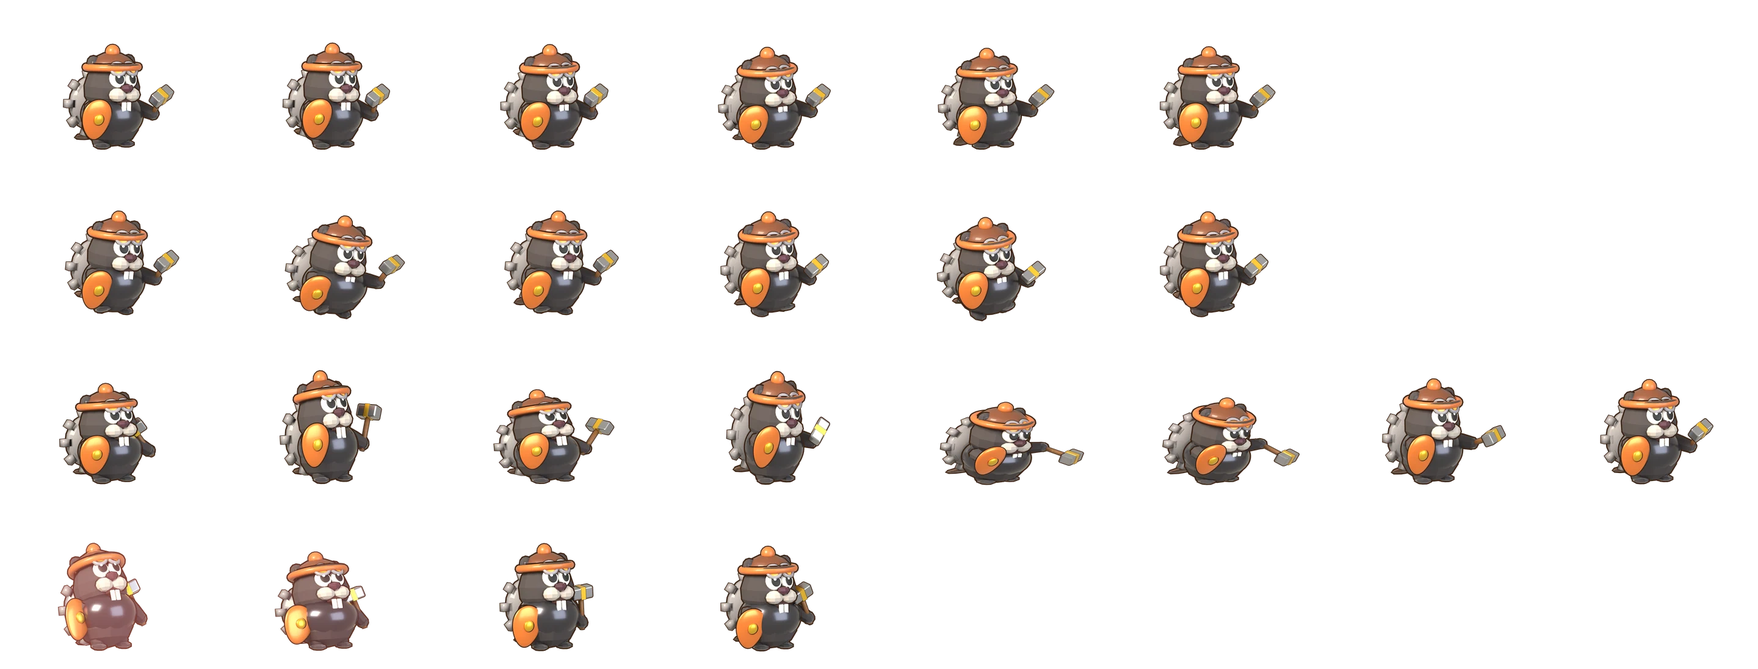
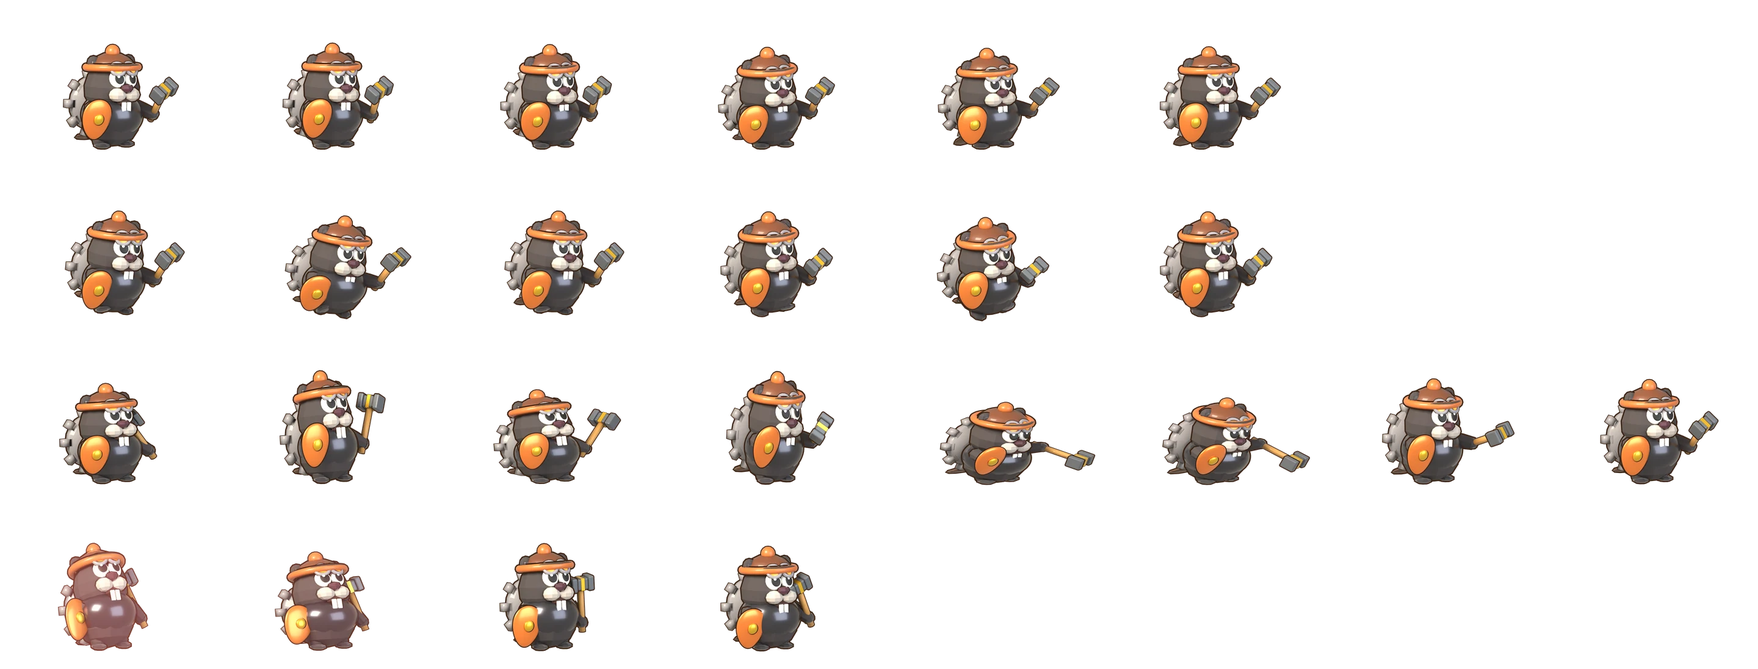
feat(hunt,rebirth,art): 벽 조건 풀이 · 머리줄 환생 단추 · 스킬 칸 주인공 곁 · 칭호 하나 · 비룡 얼굴 · 망치
사용자: "벽조건은 뭔지 구체화 · 마이페이지 오른쪽 여백에 환생하기 버튼 · 오버시 조건 요약 · 사냥터 스킬아이콘 캐릭터 가까이 · 칭호 중복 2개 중 1개 제거 · 아쉬운 점 모두 수정"
벽 = 한 지역에서 스테이지 대장에게 2번 연속 패배. rebirthWallStatus 로 마이페이지 · 사냥터가 같은 문구 · 지역별 기록 · 다음 할 일을 보여 준다
머리줄 환생 단추: 올리면(터치는 누르면) 조건 요약 · 조건을 채우면 두 번 눌러 환생 · 스킬 칸은 만남마다 주인공 발밑 가운데로 · 칭호는 머리 위 명패 하나(칭호 색), 탈것을 타도 얼굴을 안 가린다
비룡: 길고 납작한 주둥이 · 작은 세로 눈 · 찌푸린 눈썹 · 뒤로 젖힌 뿔, 몸 크기는 다른 탈것과 같게(0.66). 망치: 무광 쇠 · 밝은 자루
낮은 화면 알림 칩 폭 150px: 가장 낮은 깊이에서 몸과 22×23px 겹치던 것 → 2px. 새 동료 공유 카드는 전투 시트 대기 칸(낡은 로스터 시트로 빠지던 것)
새 검사 verify-rebirth-ui · verify-wing-clip(큰 날개 파티가 전장 왼쪽에서 잘리지 않는다)

diff --git a/src/TitansGame.tsx b/src/TitansGame.tsx
@@ -77,7 +77,7 @@ import { sfxBossEntrance, sfxBossFail, sfxIdleClaim, sfxPurchase, sfxRebirth, sf
 import { rollCoinDrop } from "./titans/eventCoins";
 import { trialCeiling, trialDpsMul } from "./titans/trialAlly";
 import { HERO_FIG } from "./equipment/heroAnchors";
-import { canRebirthNow, performRebirth } from "./progression/rebirth";
+import { canRebirthNow, performRebirth, rebirthGains, rebirthWallStatus } from "./progression/rebirth";
 import { QuestPanel } from "./titans/QuestPanel";
 import { WEAPON_EFFECTS, WEAPON_KINDS, WEAPON_LABEL, WEAPON_TECH, weaponHuntLevel, weaponIconPath, weaponStatText, type WeaponKind } from "./titans/weapons";
 import { SUMMON_LEVEL_PULLS, summonLevel, summonLevelProgress, TIERS, TIER_LABEL, TIER_RANK } from "./titans/summonLevel";
@@ -1195,9 +1195,9 @@ export function TitansGame({ insets, userHash, forgedWeaponLevel: drumLevel = 0,
     showRewardPop("discovery", discoveryTitle(kind), name, gems > 0 ? `첫 발견 보상 · 보석 +${gems}` : "도감에 기록");
   };
   /** 자동 환생 — 마이페이지 단추와 같은 처리(progression/rebirth.ts) 뒤 사냥터를 다시 불러온다 */
-  const autoRebirth = async () => {
+  const autoRebirth = async (manual = false) => {
     const cur = characterRef.current;
-    if (autoRebirthBusyRef.current || !cur.autoRebirth || !canRebirthNow(cur)) return;
+    if (autoRebirthBusyRef.current || (!manual && !cur.autoRebirth) || !canRebirthNow(cur)) return;
     autoRebirthBusyRef.current = true;
     saveFrozenRef.current = true;
     let reloaded = false;
@@ -1217,7 +1217,7 @@ export function TitansGame({ insets, userHash, forgedWeaponLevel: drumLevel = 0,
       setReady(false);
       setReloadKey((k) => k + 1);
       // later() 는 다시 불러오기 정리에서 지워진다 — 그냥 타이머로
-      window.setTimeout(() => showRewardPop("ladder", `자동 환생 · ${r.next.rebirthCount}회`, `${r.startStage}층부터 다시`, `결정 +${r.crystals}(쓸 결정 ${freeCrystals(r.next)} — 마이페이지 결정 강화) · 출발 골드 ${formatGold(r.startGold)} · 24시간 방치 2배`), 600);
+      window.setTimeout(() => showRewardPop("ladder", `${manual ? "" : "자동 "}환생 · ${r.next.rebirthCount}회`, `${r.startStage}층부터 다시`, `결정 +${r.crystals}(쓸 결정 ${freeCrystals(r.next)} — 마이페이지 결정 강화) · 출발 골드 ${formatGold(r.startGold)} · 24시간 방치 2배`), 600);
     } finally {
       autoRebirthBusyRef.current = false;
       if (!reloaded) saveFrozenRef.current = false;   // 환생이 실패하면 저장을 다시 연다
@@ -1225,6 +1225,32 @@ export function TitansGame({ insets, userHash, forgedWeaponLevel: drumLevel = 0,
   };
   const autoRebirthRef = useRef(autoRebirth);
   autoRebirthRef.current = autoRebirth;
+  const [rebirthTip, setRebirthTip] = useState(false);
+  const [rebirthArm, setRebirthArm] = useState(false);
+  const rebirthTipRef = useRef<HTMLDivElement | null>(null);
+  useEffect(() => {
+    if (!rebirthTip) return;
+    const away = (e: PointerEvent) => { if (!rebirthTipRef.current?.contains(e.target as Node)) { setRebirthTip(false); setRebirthArm(false); } };
+    document.addEventListener("pointerdown", away, true);   // 전장 stopPropagation 앞에서 받는다
+    return () => document.removeEventListener("pointerdown", away, true);
+  }, [rebirthTip]);
+  // 스킬 칸을 주인공 발밑으로 (2026-11-03, 사용자: "사냥터 스킬아이콘 캐릭터 가까이") — 만남마다 자리 잡은 뒤 한 번 잰다. 교전 중엔 움직이지 않아 누르기 쉽다
+  const skillDockRef = useRef<HTMLDivElement | null>(null);
+  useEffect(() => {
+    if (!formationReady) return;
+    const place = () => {
+      const dock = skillDockRef.current, hero = document.querySelector(".titans-field .titans-hero");
+      if (!dock || !hero) return;
+      const skills = [...dock.querySelectorAll<HTMLElement>(".titans-skill")];
+      if (!skills.length) return;
+      const d = dock.getBoundingClientRect(), h = hero.getBoundingClientRect();
+      const width = skills.reduce((n, b) => n + b.offsetWidth, 0) + 6 * (skills.length - 1);
+      dock.style.paddingLeft = `${Math.round(Math.max(58, Math.min(d.width - width - 4, h.left + h.width / 2 - d.left - width / 2)))}px`;
+    };
+    place();
+    window.addEventListener("resize", place);
+    return () => window.removeEventListener("resize", place);
+  }, [formationReady]);
   // 한 번뿐인 안내(hold)는 떠 있는 동안 흔한 안내(황금 몬스터 등)가 덮지 못한다 — 번개 환급 안내가 1초 만에 지워졌다(2026-10-28)
   const toastHoldUntil = useRef(0);
   const flash = (msg: string, ms = 1400, hold = false) => {
@@ -3588,6 +3614,31 @@ export function TitansGame({ insets, userHash, forgedWeaponLevel: drumLevel = 0,
           <span className="mypage-icon" aria-hidden="true" style={{ backgroundImage:`url(${heroPortrait()})`, backgroundSize:"cover", backgroundPosition:"center" }} />
           <span className="mypage-label">마이페이지{character.activeTitle && TITLES[character.activeTitle] ? <small style={{ color:TITLES[character.activeTitle].color }}>「{TITLES[character.activeTitle].name}」</small> : <small>칭호 미설정</small>}</span>
         </button>
+        {/* 환생 단추 (2026-11-03, 사용자: "마이페이지 오른쪽 여백에 환생하기 버튼 · 오버시 조건 요약") — 올리면(터치는 누르면) 조건 요약. 첫 탭이 바로 환생하지 않게 요약 안 단추로 진행 */}
+        {(() => {
+          const wall = rebirthWallStatus(character, save.stage), gains = rebirthGains(character);
+          return (
+            <div ref={rebirthTipRef} className={`header-rebirth ${wall.ready ? "ready" : ""} ${rebirthTip ? "open" : ""}`}>
+              <button type="button" className="header-rebirth-btn" aria-expanded={rebirthTip} aria-label={`환생 ${wall.have}/${wall.need}`} onClick={() => { setRebirthTip((v) => !v); setRebirthArm(false); }}>
+                <img src={assetUrl("titans/relics/tree-crystal.png")} alt="" />
+                <b>환생</b><small>{wall.have}/{wall.need}</small>
+              </button>
+              <div className="header-rebirth-tip" role="tooltip">
+                <strong>환생 조건 · {wall.needText}의 벽 <em>{wall.have}/{wall.need}</em></strong>
+                <p>{wall.rule}</p>
+                <p className="next">{wall.next}</p>
+                <p className="gain">받는 것: 결정 +{gains.crystals} · 진화 포인트 +1 · 방치 24시간 2배 · {gains.startStage}층부터</p>
+                {wall.ready ? (
+                  <button type="button" className={`header-rebirth-go ${rebirthArm ? "armed" : ""}`} onClick={() => { if (!rebirthArm) { setRebirthArm(true); return; } setRebirthTip(false); setRebirthArm(false); void autoRebirthRef.current(true); }}>
+                    {rebirthArm ? "정말 환생하기 (사냥터 초기화)" : "환생하기"}
+                  </button>
+                ) : (
+                  <button type="button" className="header-rebirth-go" onClick={() => onOpenContent("profile")}>마이페이지에서 자세히</button>
+                )}
+              </div>
+            </div>
+          );
+        })()}
         <div className="titans-wallet">
           <span><CurrencyIcon kind="gold" /><strong><TweenNumber value={save.gold} /></strong></span>
           {/* 강화석(파란 수정) — 상점 강화석 상자·대장간이 쓰는데 머리에 없어 '하늘색 보석'이 안 보인다고 읽혔다 (2026-10-06) */}
@@ -3688,12 +3739,9 @@ export function TitansGame({ insets, userHash, forgedWeaponLevel: drumLevel = 0,
           );
         })()}
         <div className={`titans-hero ${isMountId(character.activeMount) ? "has-mount" : ""} ${formationEngaged ? "is-engaged" : ""} ${partyApproach ? "is-approaching" : ""} ${animMode} ${skillVisual ? `skill-${skillVisual}` : ""} ${now < buffs.hasteUntil ? "hero-haste" : ""} ${now < buffs.critUntil ? "hero-crit-aura" : ""} ${now < buffs.cloneUntil ? "hero-clone" : ""}`} style={{ "--hero-fig-top": `${HERO_FIG.y0}%` } as CSSProperties}>
-          {/* 칭호 이름표 — 과금 점검: 칭호가 전투에서 전혀 보이지 않아 150~250보석 가치가 없었다 */}
-          {character.activeTitle && TITLES[character.activeTitle] && (
-            <span className="hero-title-plate" style={{ color: TITLES[character.activeTitle].color }}>✦ {TITLES[character.activeTitle].name}</span>
-          )}
-          {/* 주인공 표시 — 동료와 같은 크기가 되면서 누가 나인지 읽히지 않았다: 머리 위 명패 + 발밑 링 */}
-          <span className="hero-marker" aria-hidden="true"><b>{TITLES[character.activeTitle ?? ""]?.name ?? (character.activeCharacter && character.activeCharacter !== "default" ? CHARACTER_LABEL[character.activeCharacter as CharacterSkinId] ?? "모험가" : "모험가")}</b><i>▼</i></span>
+          {/* 주인공 표시 — 동료와 같은 크기가 되면서 누가 나인지 읽히지 않았다: 머리 위 명패 + 발밑 링.
+              칭호가 있으면 명패가 칭호 색으로 커진다 — 이름표 · 명패에 같은 칭호가 두 번 나오던 것을 하나로 (2026-11-03, 사용자: "칭호 중복 2개 중 1개 제거") */}
+          <span className={`hero-marker ${TITLES[character.activeTitle ?? ""] ? "has-title" : ""}`} aria-hidden="true" style={TITLES[character.activeTitle ?? ""] ? { "--title-color": TITLES[character.activeTitle ?? ""].color } as CSSProperties : undefined}><b>{TITLES[character.activeTitle ?? ""] ? "✦ " : ""}{TITLES[character.activeTitle ?? ""]?.name ?? (character.activeCharacter && character.activeCharacter !== "default" ? CHARACTER_LABEL[character.activeCharacter as CharacterSkinId] ?? "모험가" : "모험가")}</b><i>▼</i></span>
           <span className="hero-ring" aria-hidden="true" />
           {/* 시전 이름표 — 영웅을 따라다닌다 (예전엔 화면 가운데 컷인) */}
           {skillVisual && (() => {
@@ -3910,7 +3958,7 @@ export function TitansGame({ insets, userHash, forgedWeaponLevel: drumLevel = 0,
 
         {/* 스킬 독 — 전장 안 좌하단. 스킬은 전투 중 누르는 것이라 전장 밖(하단 카드 열)에
             있으면 시선이 오간다. 힌트 텍스트는 우하단으로 비켜난다 (사용자 지시). */}
-        <div className="titans-skill-dock" onPointerDown={(e) => e.stopPropagation()}>
+        <div ref={skillDockRef} className="titans-skill-dock" onPointerDown={(e) => e.stopPropagation()}>
           <div className="battle-qol" role="group" aria-label="전투 편의">
             <button
               type="button"

diff --git a/src/CharacterStatus.tsx b/src/CharacterStatus.tsx
@@ -28,7 +28,7 @@ import {
 } from "./progression/idle";
 import { HUNTING_AREAS, huntingArea } from "./titans/model";
 import { formatWallet } from "./ui/WalletBar";
-import { canRebirthNow, performRebirth, rebirthGains, rebirthNeedAreas } from "./progression/rebirth";
+import { canRebirthNow, performRebirth, rebirthGains, rebirthNeedAreas , rebirthWallStatus, WALL_BOSS_LOSSES } from "./progression/rebirth";
 import { sfxRebirth } from "./ui/sfx";
 import { LockIcon } from "./ui/LockIcon";
 import { freeCrystals, treeIdleMult } from "./progression/crystalTree";
@@ -166,10 +166,11 @@ export function CharacterStatus({
   const needAreas = rebirthNeedAreas(progress);
   const canRebirth = canRebirthNow(progress);
   const gains = rebirthGains(progress);
+  const wall = rebirthWallStatus(progress, titans.stage);
   const toggleAutoRebirth = async () => {
     const next = await updateCharacterProgress(userHash, (current) => ({ ...current, autoRebirth: !current.autoRebirth }));
     onProgressChange(next);
-    setGrowthMessage(next.autoRebirth ? `자동 환생 켜짐 — 사냥터에서 벽 조건을 채우면 바로 환생하고 ${rebirthGains(next).startStage}층부터 다시 오릅니다` : "자동 환생 꺼짐");
+    setGrowthMessage(next.autoRebirth ? `자동 환생 켜짐 — 대장 ${WALL_BOSS_LOSSES}연패 지역을 ${wall.need}곳 채우면 사냥터에서 바로 환생하고 ${rebirthGains(next).startStage}층부터 다시 오릅니다` : "자동 환생 꺼짐");
   };
 
   const chooseEvolution = async (path: Exclude<EvolutionPath, "novice">) => {
@@ -217,7 +218,7 @@ export function CharacterStatus({
 
   const rebirth = async () => {
     if (!canRebirth) {
-      setGrowthMessage(`${needAreas}개 지역에서 한계(DPS 벽)에 도달하면 환생할 수 있습니다. (현재 ${progress.wallAreas.length})`);
+      setGrowthMessage(wall.next);
       return;
     }
     // 리셋이 생겼으므로 실수 방지 확인 단계
@@ -533,6 +534,15 @@ export function CharacterStatus({
         </div>
         <div className="legacy-heading"><div><small>REBIRTH</small><strong>계승</strong></div><span>결정 {freeCrystals(progress)} / {progress.inheritanceCrystals} · 방치 +{treeIdleMult(progress.crystalTree).toFixed(2)}</span></div>
         <div className="mp-rebirth">
+          {/* 벽 조건을 풀어 쓴다 (2026-11-03, 사용자: "벽조건은 뭔지 구체화") */}
+          <div className={`rebirth-wall-guide ${wall.ready ? "ready" : ""}`}>
+            <strong>환생 조건 · {wall.needText}의 벽 <em>{wall.have}/{wall.need}</em></strong>
+            <p>{wall.rule}</p>
+            <ul aria-label="지역별 벽 기록">
+              {wall.areas.map((a) => <li key={a.id} className={`${a.done ? "done" : ""} ${a.here ? "here" : ""}`}>{a.done ? "✓ " : ""}{a.name}{a.here ? " · 지금" : ""}</li>)}
+            </ul>
+            <p className="next">{wall.next}</p>
+          </div>
           {/* 환생하면 받는 것 — 한 줄씩 이름 · 값 */}
           <ul className="rebirth-preview mp-gain" aria-label="환생하면 받는 것">
             <li><span>결정</span> <b>+{gains.crystals}</b></li>
@@ -542,12 +552,12 @@ export function CharacterStatus({
             <li><span>출발 골드</span> <b>{formatWallet(gains.startGold)}</b></li>
             <li><span>사다리 · 유물</span> <b>유지</b></li>
           </ul>
-          <button type="button" className={`rebirth-button ${rebirthConfirm ? "confirming" : ""} ${canRebirth ? "" : "is-locked"}`} style={{ "--wall-p": `${Math.min(100, (progress.wallAreas.length / needAreas) * 100)}%` } as CSSProperties} aria-disabled={!canRebirth} onClick={() => (canRebirth ? void rebirth() : setGrowthMessage(`환생은 DPS 벽 ${needAreas}지역이 필요합니다 — 지금 ${progress.wallAreas.length}지역 (사냥터에서 막힌 지역)`))}>
-            {canRebirth ? (rebirthConfirm ? "정말 환생하기 (사냥터 초기화)" : `환생 ${progress.rebirthCount + 1}회째 시작`) : `환생 ${progress.rebirthCount}회 · DPS 벽 ${progress.wallAreas.length}/${needAreas} 지역`}
+          <button type="button" className={`rebirth-button ${rebirthConfirm ? "confirming" : ""} ${canRebirth ? "" : "is-locked"}`} style={{ "--wall-p": `${Math.min(100, (progress.wallAreas.length / needAreas) * 100)}%` } as CSSProperties} aria-disabled={!canRebirth} onClick={() => (canRebirth ? void rebirth() : setGrowthMessage(wall.next))}>
+            {canRebirth ? (rebirthConfirm ? "정말 환생하기 (사냥터 초기화)" : `환생 ${progress.rebirthCount + 1}회째 시작`) : `환생 ${progress.rebirthCount}회 · 벽 ${progress.wallAreas.length}/${needAreas} 지역 (대장 ${WALL_BOSS_LOSSES}연패)`}
           </button>
           {/* 자동 환생 (2026-10-22 아처 키우기 7번 — "언제까지 환생하냐, 귀찮다") */}
           <button type="button" className={`auto-rebirth-toggle ${progress.autoRebirth ? "on" : ""}`} role="switch" aria-checked={progress.autoRebirth} onClick={() => void toggleAutoRebirth()}>
-            <i aria-hidden="true" /><span><b>자동 환생</b><small>벽 조건을 채우면 사냥터에서 바로 환생 · {gains.startStage}층부터</small></span>
+            <i aria-hidden="true" /><span><b>자동 환생</b><small>대장 {WALL_BOSS_LOSSES}연패 지역 {wall.need}곳을 채우면 사냥터에서 바로 환생 · {gains.startStage}층부터</small></span>
           </button>
         </div>
         <CrystalTreePanel userHash={userHash} progress={progress} onProgressChange={onProgressChange} onMessage={setGrowthMessage} />

diff --git a/src/ui-polish.css b/src/ui-polish.css
@@ -1334,7 +1334,52 @@
 .titans-hero .hero-pet { width: 60%; left: -38%; }
 /* 낮은 화면(360×640)은 커진 스킬 칸이 전장 알림과 12px 겹쳤다(inspect-mobile) — 알림을 스킬 칸 위로 올린다 */
 @media (max-height: 700px) {
-  .titans-field:not(.lanes-wide) .battle-alert-stack { bottom: 70px !important; }   /* 72 는 가장 낮은 깊이의 주인공 발과 4px 넘게 겹쳤다(verify-walk-y) */
+  .titans-field:not(.lanes-wide) .battle-alert-stack { bottom: 70px !important; width: 150px !important; }   /* 가장 낮은 깊이(왼쪽 −9%)에서 몸과 22×23px 겹쳤다(_probe-alert-lanes) — 칩을 좁혀 몸이 서는 왼쪽 구간을 비운다. 글자는 줄임표, 눌러서 내용을 본다 */
 }
 /* 사냥터 토스트 12px — 황금 몬스터 안내가 기준(13px) 밑이었다(scan-readability 가 그 순간에 걸릴 때만 잡았다) */
 .titans-toast { font-size: 13px !important; }
+
+/* 사냥터 머리줄 환생 단추 (2026-11-03) — 마이페이지와 지갑 사이 여백. 올리면(터치는 누르면) 조건 요약 */
+.titans-header .titans-back { min-width: 0; flex: 0 1 auto; }
+.header-rebirth { position: relative; flex: 0 0 auto; z-index: 60; }
+.header-rebirth-btn { display: grid; grid-template-rows: 18px auto auto; justify-items: center; width: 40px; padding: 2px 0 3px; border: 2px solid #3b2415; border-radius: 12px; background: #fff7e6; color: #3b2415; line-height: 1.05; cursor: pointer; box-shadow: 0 2px 0 #3b2415; }
+.header-rebirth-btn img { width: 18px; height: 18px; object-fit: contain; }
+.header-rebirth-btn b { font-size: 11px; font-weight: 800; }
+.header-rebirth-btn small { font-size: 11px; font-weight: 800; color: #7a5a3a; }
+.header-rebirth.ready .header-rebirth-btn { background: #fcd34d; animation: header-rebirth-glow 1.6s ease-in-out infinite; }
+.header-rebirth.ready .header-rebirth-btn small { color: #3b2415; }
+@keyframes header-rebirth-glow { 50% { box-shadow: 0 2px 0 #3b2415, 0 0 10px rgba(251, 191, 36, .9); } }
+.header-rebirth-tip { position: absolute; top: calc(100% + 6px); left: 50%; translate: -50% 0; width: min(270px, 74vw); padding: 10px 12px; border: 2px solid #3b2415; border-radius: 14px; background: #fff7e6; color: #3b2415; text-align: left; box-shadow: 0 4px 0 #3b2415; visibility: hidden; opacity: 0; transition: opacity .12s; }
+.header-rebirth.open .header-rebirth-tip, .header-rebirth:has(.header-rebirth-btn:focus-visible) .header-rebirth-tip { visibility: visible; opacity: 1; }   /* focus-within 은 터치 뒤 포커스가 남아 안 닫혔다 */
+@media (hover: hover) { .header-rebirth:hover .header-rebirth-tip { visibility: visible; opacity: 1; } }
+.header-rebirth-tip strong { display: block; font-size: 14px; font-weight: 800; }
+.header-rebirth-tip strong em { font-style: normal; color: #c2410c; }
+.header-rebirth-tip p { margin: 5px 0 0; font-size: 12.5px; line-height: 1.35; color: #5a4230; }
+.header-rebirth-tip p.next { font-weight: 800; color: #166534; }
+.header-rebirth-go { display: block; width: 100%; min-height: 36px; margin-top: 8px; border: 2px solid #3b2415; border-radius: 10px; background: #fcd34d; color: #3b2415; font-size: 13px; font-weight: 800; cursor: pointer; }
+.header-rebirth-go.armed { background: #dc2626; color: #fff; }
+/* 마이페이지 벽 조건 풀이 */
+.rebirth-wall-guide { display: grid; gap: 6px; padding: 10px 12px; border: 2px solid #d8c8a8; border-radius: 14px; background: #fffaf0; color: #3b2415; }
+.rebirth-wall-guide strong { font-size: 14px; font-weight: 800; }
+.rebirth-wall-guide strong em { font-style: normal; color: #c2410c; }
+.rebirth-wall-guide.ready { border-color: #16a34a; }
+.rebirth-wall-guide p { margin: 0; font-size: 12.5px; line-height: 1.4; color: #5a4230; }
+.rebirth-wall-guide p.next { font-weight: 800; color: #166534; }
+.rebirth-wall-guide ul { display: flex; flex-wrap: wrap; gap: 4px; margin: 0; padding: 0; list-style: none; }
+.rebirth-wall-guide li { padding: 2px 8px; border: 1px solid #d8c8a8; border-radius: 999px; background: #fff; font-size: 12px; color: #7a5a3a; }
+.rebirth-wall-guide li.here { border-color: #3b2415; color: #3b2415; font-weight: 800; }
+.rebirth-wall-guide li.done { border-color: #16a34a; background: #dcfce7; color: #166534; font-weight: 800; }
+/* 스킬 칸은 주인공 발밑으로 옮긴다(TitansGame skillDockRef) */
+.titans-field .titans-skill-dock { transition: padding-left .25s ease; }
+/* 칭호 명패 — 칭호가 있으면 칭호 색 · 읽히는 크기로 (이름표와 합침) */
+.hero-marker.has-title b { color: var(--title-color, #fde047); background: #1f2937; font-size: 11px; transform: none; padding: 2px 7px; }
+/* 탈것을 타면 주인공이 올라간 만큼 명패도 — 안 올리면 얼굴을 가렸다 */
+.titans-hero.has-mount .hero-marker { translate: 0 -46px; }
+/* 환생 단추에 자리를 내주며 "칭호 미설정"이 잘렸다 — 그림 · 간격을 조금씩 줄인다 */
+@media (max-width: 430px) {
+  .titans-header { gap: 3px !important; }
+  .titans-header .titans-back { gap: 3px; padding-inline: 5px !important; }
+  .titans-header .mypage-icon { width: 28px; height: 28px; flex-basis: 28px; }
+  .titans-wallet { gap: 3px !important; padding-inline: 5px !important; }
+  .header-rebirth-btn { width: 36px; }
+}

diff --git a/src/progression/rebirth.ts b/src/progression/rebirth.ts
@@ -9,7 +9,7 @@ import { updateCharacterProgress } from "./storage";
 import { earnedBadgeIds } from "./badges";
 import { openMomentOffer } from "../economy/momentOffers";
 import { rebirthResetTitans } from "../titans/storage";
-import { rebirthCrystals, rebirthStartGold, type TitansSave } from "../titans/model";
+import { HUNTING_AREAS, huntingArea, rebirthCrystals, rebirthStartGold, type TitansSave } from "../titans/model";
 import { boostedRebirthCrystals, rebirthStartStage, skippedStageGold } from "./crystalTree";
 import { stageCeilingFor } from "./idle";
 
@@ -23,6 +23,32 @@ export function rebirthNeedAreas(progress: Pick<CharacterProgress, "rebirthCount
 
 export function canRebirthNow(progress: Pick<CharacterProgress, "rebirthCount" | "wallAreas">): boolean {
   return progress.wallAreas.length >= rebirthNeedAreas(progress);
+}
+
+/** 한 지역의 벽 = 그 지역 스테이지 대장에게 이만큼 연속으로 진 것 (TitansGame 대장 실패 처리) */
+export const WALL_BOSS_LOSSES = 2;
+
+/**
+ * 벽 조건을 풀어 쓴 것 (2026-11-03, 사용자: "벽조건은 뭔지 구체화") — 마이페이지 · 사냥터 환생 단추가 같이 쓴다.
+ * areas: 지역마다 기록 여부 · 지금 있는 곳 / next: 지금 무엇을 하면 조건이 차는지 한 문장
+ */
+export function rebirthWallStatus(progress: Pick<CharacterProgress, "rebirthCount" | "wallAreas">, stage: number) {
+  const need = rebirthNeedAreas(progress), have = progress.wallAreas.length, ready = have >= need;
+  const here = huntingArea(Math.max(1, stage));
+  const areas = HUNTING_AREAS.map((a) => ({ id: a.id, name: a.name, done: progress.wallAreas.includes(a.id), here: a.id === here.id }));
+  const later = HUNTING_AREAS.find((a) => a.stageFrom > here.stageTo && !progress.wallAreas.includes(a.id));
+  const next = ready
+    ? "조건을 채웠어요 — 지금 환생할 수 있어요"
+    : !progress.wallAreas.includes(here.id)
+      ? `지금 ${here.name}(Stage ${Math.max(1, stage)})에서 대장에게 ${WALL_BOSS_LOSSES}번 연속 지면 벽 ${have + 1}/${need}`
+      : later
+        ? `${here.name}은 기록했어요 — ${later.name}(Stage ${later.stageFrom}~)까지 올라가 대장에게 ${WALL_BOSS_LOSSES}번 연속 지기`
+        : `${here.name}은 기록했어요 — 아직 기록 안 한 지역에서 대장에게 ${WALL_BOSS_LOSSES}번 연속 지기`;
+  return {
+    need, have, ready, areas, next,
+    rule: `한 지역에서 스테이지 대장에게 ${WALL_BOSS_LOSSES}번 연속 지면 그 지역이 벽으로 기록돼요(지역마다 처음 한 번 · 보석 +30).`,
+    needText: need > 1 ? `서로 다른 지역 ${need}곳` : "지역 1곳",
+  };
 }
 
 /**

diff --git a/src/titans/SpriteArt.tsx b/src/titans/SpriteArt.tsx
@@ -86,6 +86,7 @@ const STANDALONE_ALLY: Partial<Record<TitanHeroId, string>> = {
  * 폭 150%·좌측 −25%로 원본 비율을 지킨다(WIDE_CELL). 아틀라스에 행이 없는 동료만 개별 PNG(정지)로 떨어진다.
  */
 export type AllyFrameState = 0 | 1 | 2 | 3;
+const ALLY_LAYOUT_COLS = 8, ALLY_LAYOUT_ROWS = 4;   // art-gen/anim-layout.json ally
 const ALLY_ANIMATION_ATLAS = assetUrl("titans/generated/allies/ally-animation-atlas-v1.png");
 const VARIANT_ATLAS = assetUrl("titans/generated/allies/ally-variant-atlas-v1.png");
 const SKIN_ATLAS = assetUrl("titans/generated/allies/ally-skin-atlas-v1.png");
@@ -613,5 +614,7 @@ export function allyIdleCell(id: TitanHeroId, skin?: string): { src: string; col
   if (VARIANT_ROW[id] !== undefined) return { src: VARIANT_ATLAS, cols: 4, rows: VARIANT_ROWS, row: VARIANT_ROW[id]!, wide: true };
   if (SPECIAL_ROW[id] !== undefined) return { src: SPECIAL_ATLAS, cols: 4, rows: 4, row: SPECIAL_ROW[id]!, wide: false };
   if (BASE_ROW[id] !== undefined) return { src: ALLY_ANIMATION_ATLAS, cols: 4, rows: 6, row: BASE_ROW[id]!, wide: true };
+  // 새 동료 40명은 전투 시트 대기 첫 칸 — 낡은 로스터 시트(ally-roster-weaponless)로 빠져 공유 카드에 엉뚱한 그림이 나왔다 (2026-11-03)
+  if (!STANDALONE_ALLY[id] && hasAllyAnim(id)) return { src: assetUrl(`titans/anim/allies/${id}.webp`), cols: ALLY_LAYOUT_COLS, rows: ALLY_LAYOUT_ROWS, row: 0, wide: true };
   return { src: STANDALONE_ALLY[id] ?? ALLY_SHEET, cols: 1, rows: 1, row: 0, wide: false };
 }

diff --git a/art-gen/blender/lib/creature.py b/art-gen/blender/lib/creature.py
@@ -548,11 +548,22 @@ def _build(name, cfg, coll=None):
         add('body', C.mesh_obj('body', C.ellipsoid(bc, br), M['skin'], coll, outline=OUT))
         add('body', C.mesh_obj('belly', C.ellipsoid(bc + Vector((0, 0, -0.07)), (br[0] * 0.75, br[1] * 0.8, br[2] * 0.6)), M['belly'], coll, outline=OUT * 0.5))
         add('head', C.mesh_obj('head', C.ellipsoid(hc, hr), M['skin'], coll, outline=OUT))
-        add('head', C.mesh_obj('snout', C.ellipsoid(hc + Vector((0, -hr[1] * 1.0, -hr[2] * 0.25)), (hr[0] * 0.5, hr[1] * 0.75, hr[2] * 0.4)), M['belly'], coll, outline=OUT))   # 늑대·사자 주둥이를 길게
-        add('head', C.mesh_obj('nose', C.ellipsoid(hc + Vector((0, -hr[1] * 1.72, -hr[2] * 0.08)), (0.045, 0.035, 0.035)), M['dark'], coll))
-        _eyes(add, hc, hr, cfg, coll, M, spread=0.42, up=0.18, size=0.8)
+        wy = cfg.get('wyvern')
+        if wy:   # 비룡 (2026-11-03, 사용자: "얼굴이 귀여운 편 · 사나운 용 느낌" 수정) — 여우 같은 흰 주둥이 · 큰 눈을 뺀다
+            sn0 = hc + Vector((0, -hr[1] * 0.7, -hr[2] * 0.22))
+            sp = spline([sn0, sn0 + Vector((0, -0.14, -0.015)), sn0 + Vector((0, -0.27, -0.03))], 10)
+            add('head', C.mesh_obj('snout', C.tube(sp, interp([hr[0] * 0.62, hr[0] * 0.5, hr[0] * 0.42], len(sp)), seg=12), M['skin'], coll, outline=OUT))
+            for sx in (-1, 1):
+                add('head', C.mesh_obj(f'nostril{sx}', C.ellipsoid(sp[-1] + Vector((sx * 0.035, -0.035, hr[0] * 0.26)), (0.022, 0.018, 0.016)), M['dark'], coll))
+                bp, bn = C.on_ellipsoid(hc, hr, Vector((sx * 0.42, -1.0, 0.62)))
+                add('head', C.mesh_obj(f'brow{sx}', C.ellipsoid(bp + bn * 0.018 + Vector((sx * 0.004, 0, 0.0)), (0.075, 0.03, 0.02), rot=Euler((0, sx * math.radians(-24), 0))), M['dark'], coll, outline=OUT * 0.4))
+            _eyes(add, hc, hr, dict(cfg, eye_size=0.05, slit=True), coll, M, spread=0.42, up=0.2, size=1.0)
+        else:
+            add('head', C.mesh_obj('snout', C.ellipsoid(hc + Vector((0, -hr[1] * 1.0, -hr[2] * 0.25)), (hr[0] * 0.5, hr[1] * 0.75, hr[2] * 0.4)), M['belly'], coll, outline=OUT))   # 늑대·사자 주둥이를 길게
+            add('head', C.mesh_obj('nose', C.ellipsoid(hc + Vector((0, -hr[1] * 1.72, -hr[2] * 0.08)), (0.045, 0.035, 0.035)), M['dark'], coll))
+            _eyes(add, hc, hr, cfg, coll, M, spread=0.42, up=0.18, size=0.8)
         mz = hc + Vector((0, -hr[1] * 1.35, -hr[2] * 0.6))   # 턱도 긴 주둥이 아래로
-        add('jaw', C.mesh_obj('jaw', C.ellipsoid(mz, (hr[0] * 0.42, hr[1] * 0.38, hr[2] * 0.14)), M['belly'], coll, outline=OUT))
+        add('jaw', C.mesh_obj('jaw', C.ellipsoid(mz, (hr[0] * 0.42, hr[1] * 0.38, hr[2] * 0.14)), M['skin'] if wy else M['belly'], coll, outline=OUT))
         add('head', C.mesh_obj('mouth', C.ellipsoid(mz + Vector((0, 0, 0.03)), (hr[0] * 0.36, hr[1] * 0.32, hr[2] * 0.1)), M['mouth'], coll))
         for sx in (-1, 1):
             add('head', C.mesh_obj(f'fang{sx}', C.cone(mz + Vector((sx * 0.05, -hr[1] * 0.3, 0.0)), 0.02, 0.0, 0.055, seg=10, rot=Euler((math.pi, 0, 0))), M['tooth'], coll, outline=OUT * 0.4))
@@ -560,7 +571,7 @@ def _build(name, cfg, coll=None):
             if cfg.get('ears', 'wolf') == 'wolf':
                 add('head', C.mesh_obj(f'ear{sx}', C.cone(base + Vector((0, 0, 0.08)), 0.07, 0.0, 0.18, seg=4, rot=Euler((0, sx * math.radians(-10), 0))), M['skin'], coll, outline=OUT))
             if cfg.get('horns'):
-                curve = spline([base, base + Vector((sx * 0.1, 0.03, 0.08)), base + Vector((sx * 0.2, 0.1, 0.14))], 10)
+                curve = spline([base, base + Vector((sx * 0.05, 0.1, 0.09)), base + Vector((sx * 0.08, 0.24, 0.13))], 10) if wy else spline([base, base + Vector((sx * 0.1, 0.03, 0.08)), base + Vector((sx * 0.2, 0.1, 0.14))], 10)
                 add('head', C.mesh_obj(f'horn{sx}', C.tube(curve, interp([0.045, 0.03, 0.005], len(curve)), seg=12), M['horn'], coll, outline=OUT * 0.8))
             if cfg.get('mane'):
                 add('head', C.mesh_obj(f'mane{sx}', C.ellipsoid(hc + Vector((sx * 0.08, 0.12, 0.0)), (hr[0] * 1.1, 0.15, hr[2] * 1.25)), _m('mane', cfg['mane'], rough=0.7), coll, outline=OUT))

diff --git a/art-gen/blender/roster_ext.py b/art-gen/blender/roster_ext.py
@@ -52,10 +52,10 @@ NEW_ALLIES = {
     'sage': dict(PALE, hat='wizard', hat_color='#4a8a3a', robe='#6aaa4a', trim='#ffd34d', face='beard', face_color='#f6f2e8', belt='#3a5a2a', weapon_r='staff', weapon_color='#b8ff7a', role='healer'),   # 흰 수염 현자
     'hawk': dict(GOLDF, hat='plume', hat_color='#8a4a22', hat_color2='#c8862a', cape='#c8862a', back='quiver', back_color='#6a3a1a', fletch='#c8862a', weapon_l='bow', role='bow'),   # 깃털 관
     'tide': dict(PALE, hat='tricorn', hat_color='#2a4aa8', hat_color2='#ffd34d', robe='#3a6ad0', trim='#ffd34d', face='monocle', face_color='#f2c232', weapon_r='staff', weapon_color='#5ae0ff', role='mage'),   # 해군 제독
-    'anvil': dict(CHAR, hat='beanie', hat_color='#6a3a20', hat_color2='#c8682a', pom_z=0.065, face='goggles', face_color='#8a8a92', lens='#ff9a3a', armor='#4a4a52', trim='#ffd34d', back='gear', back_color='#8a8a92', back_color2='#ffd34d', weapon_r='hammer', weapon_color='#a8acb4', weapon_l='shield', weapon_l_color='#ff8a3a', role='tank'),   # 대장장이 — 등에 톱니바퀴 · 망치
+    'anvil': dict(CHAR, hat='beanie', hat_color='#6a3a20', hat_color2='#c8682a', pom_z=0.065, face='goggles', face_color='#8a8a92', lens='#ff9a3a', armor='#4a4a52', trim='#ffd34d', back='gear', back_color='#8a8a92', back_color2='#ffd34d', weapon_r='hammer', weapon_color='#5a6068', weapon_l='shield', weapon_l_color='#ff8a3a', role='tank'),   # 대장장이 — 등에 톱니바퀴 · 망치
     # ── UR 신화 6 — 날개 · 후광 · 빛나는 무기 ──
     'aurora': dict(SNOW, hat='tiara', hat_color='#7affd8', over='halo', over_color='#a8fff0', robe='#bfe8ff', trim='#ffd34d', back='wings', back_color='#e8fff8', back_color2='#a8f0e0', wing_len=0.4, wing_glow=0.35, weapon_r='staff', weapon_color='#a8fff0', role='healer'),   # 후광 · 오로라 날개
-    'titan': dict(DARKF, hat='horncrown', hat_color='#ffb83a', hat_color2='#efe4c8', horn_rise=0.22, armor='#8a7a5a', trim='#ffd34d', cape='#6a5a3a', back='shell', back_color='#7a6a4a', back_color2='#ffd34d', weapon_r='hammer', weapon_l='shield', weapon_l_color='#ffd34d', weapon_color='#fff0a0', role='tank'),   # 뿔 왕관 · 금 등판 · 큰 망치
+    'titan': dict(DARKF, hat='horncrown', hat_color='#ffb83a', hat_color2='#efe4c8', horn_rise=0.22, armor='#8a7a5a', trim='#ffd34d', cape='#6a5a3a', back='shell', back_color='#7a6a4a', back_color2='#ffd34d', weapon_r='hammer', weapon_l='shield', weapon_l_color='#ffd34d', weapon_color='#b0862a', role='tank'),   # 뿔 왕관 · 금 등판 · 큰 망치
     'solar': dict(GOLDF, hat='sunburst', hat_color='#ffc83a', cape='#ff7a2a', weapon_l='sword', weapon_color='#fff07a', role='melee'),   # 머리 뒤 해살
     'tempest': dict(SKYF, hat='crown', hat_color='#7ad8ff', band='#3a8ad8', cape='#3a8ad8', back='orbs', back_color='#ffe87a', weapon_l='bow', role='bow'),   # 번개 구슬
     'abyss': dict(INK, hat='hornhood', hat_color='#3a2a6a', hat_color2='#c084fc', face='mask', face_color='#14142a', robe='#4a2a8a', trim='#c084fc', back='orbs', back_color='#c084fc', tail_fx='ember', weapon_r='staff', weapon_color='#c084fc', role='mage'),   # 뿔 두건 · 어둠 구슬

diff --git a/art-gen/blender/lib/beaver.py b/art-gen/blender/lib/beaver.py
@@ -277,10 +277,14 @@ def weapon(kind, at, coll, color='#cfd6df', accent='#8a5a2b'):
                 if t > 0.8:
                     v.co.x = g.x + (v.co.x - g.x) * max(0.05, (1 - t) / 0.2)
             out.append(C.mesh_obj('blade', bm, steel, coll, outline=OUT * 0.6))
-    elif kind == 'hammer':   # 대장장이 · 거인 망치(2026-11-03) — 도끼보다 짧아 공격 칸 키가 덜 튄다
-        out.append(C.mesh_obj('grip', C.tube([g + Vector((0, 0, -0.06)), g + Vector((0, 0, 0.26))], 0.02, seg=10), wood, coll, outline=OUT * 0.6))
-        out.append(C.mesh_obj('hm_head', C.box(g + Vector((0, 0, 0.27)), (0.2, 0.1, 0.1), bevel=0.012), steel, coll, smooth=False, outline=OUT * 0.6))
-        out.append(C.mesh_obj('hm_band', C.box(g + Vector((0, 0, 0.27)), (0.045, 0.108, 0.108)), gold, coll, smooth=False, outline=OUT * 0.3))
+    elif kind == 'hammer':   # 대장장이 · 거인 망치(2026-11-03) — 무광 쇠 · 밝은 자루 · 넓적한 머리. 번들거리는 쇠는 작은 칸에서 하얀 네모로 보였다
+        iron = _accent('hammerhead', color, rough=0.55, metal=0.25)
+        handle = _accent('hammerwood', '#c8924a', rough=0.65)
+        out.append(C.mesh_obj('grip', C.tube([g + Vector((0, 0, -0.08)), g + Vector((0, 0, 0.32))], 0.027, seg=10), handle, coll, outline=OUT * 0.7))
+        out.append(C.mesh_obj('hm_head', C.box(g + Vector((0, 0, 0.35)), (0.12, 0.095, 0.1), bevel=0.012), iron, coll, smooth=False, outline=OUT * 0.7))
+        for sx in (-1, 1):   # 양쪽으로 넓어지는 때리는 면
+            out.append(C.mesh_obj(f'hm_face{sx}', C.box(g + Vector((sx * 0.085, 0, 0.35)), (0.05, 0.12, 0.125), bevel=0.01), iron, coll, smooth=False, outline=OUT * 0.7))
+        out.append(C.mesh_obj('hm_band', C.box(g + Vector((0, 0, 0.35)), (0.035, 0.104, 0.108)), gold, coll, smooth=False, outline=OUT * 0.3))
     elif kind in ('spear', 'trident', 'shovel', 'lance'):
         out.append(C.mesh_obj('shaft', C.tube([g + Vector((0, 0, -0.2)), g + Vector((0, 0, 0.42))], 0.018, seg=12), wood, coll, outline=OUT * 0.6))
         tip = g + Vector((0, 0, 0.42))

diff --git a/art-gen/blender/roster.py b/art-gen/blender/roster.py
@@ -140,7 +140,7 @@ MONSTERS = {
     'mount-boar': dict(kind='quad', color='#8a5a3a', belly='#d8b890', dark='#4a2f1e', iris='#2a1a12', tusks=True, ears='wolf'),
     'mount-deer': dict(kind='quad', color='#c08a50', belly='#f5e0c0', dark='#6a4a2a', iris='#2a1a12', horns='curl', horn='#f1e4c8', ears='wolf'),
     'mount-wolf': dict(kind='quad', color='#8a93a6', belly='#e8ecf2', dark='#454c5e', iris='#2a1a12', mane='#c8d0dc', ears='wolf'),
-    'mount-drake': dict(kind='quad', color='#c8481f', belly='#f5d7a0', dark='#6a2a10', accent='#ffb347', iris='#2a1a12', horns='curl', horn='#f1e4c8', flames=True, ears='none', wings=True, wing='#f09a3e', wing_size=1.08, wing_spread=38, spikes_quad=True, tail_tip=True),   # 불꽃 비룡 — 박쥐 날개 · 등 가시 · 꼬리 끝 불꽃
+    'mount-drake': dict(kind='quad', wyvern=True, color='#b83a1c', belly='#e8b878', dark='#4e1c0c', accent='#ffb347', iris='#2a1a12', horns='curl', horn='#e8dcc0', flames=True, ears='none', wings=True, wing='#e8843a', wing_size=0.98, wing_spread=38, spikes_quad=True, tail_tip=True),   # 불꽃 비룡 — 박쥐 날개 · 등 가시 · 꼬리 끝 불꽃
 }
 FLIP_MONSTERS = {'fire-demon', 'thorn-boar-king', 'flame-wyvern-clean', 'lava-drake'}
 
